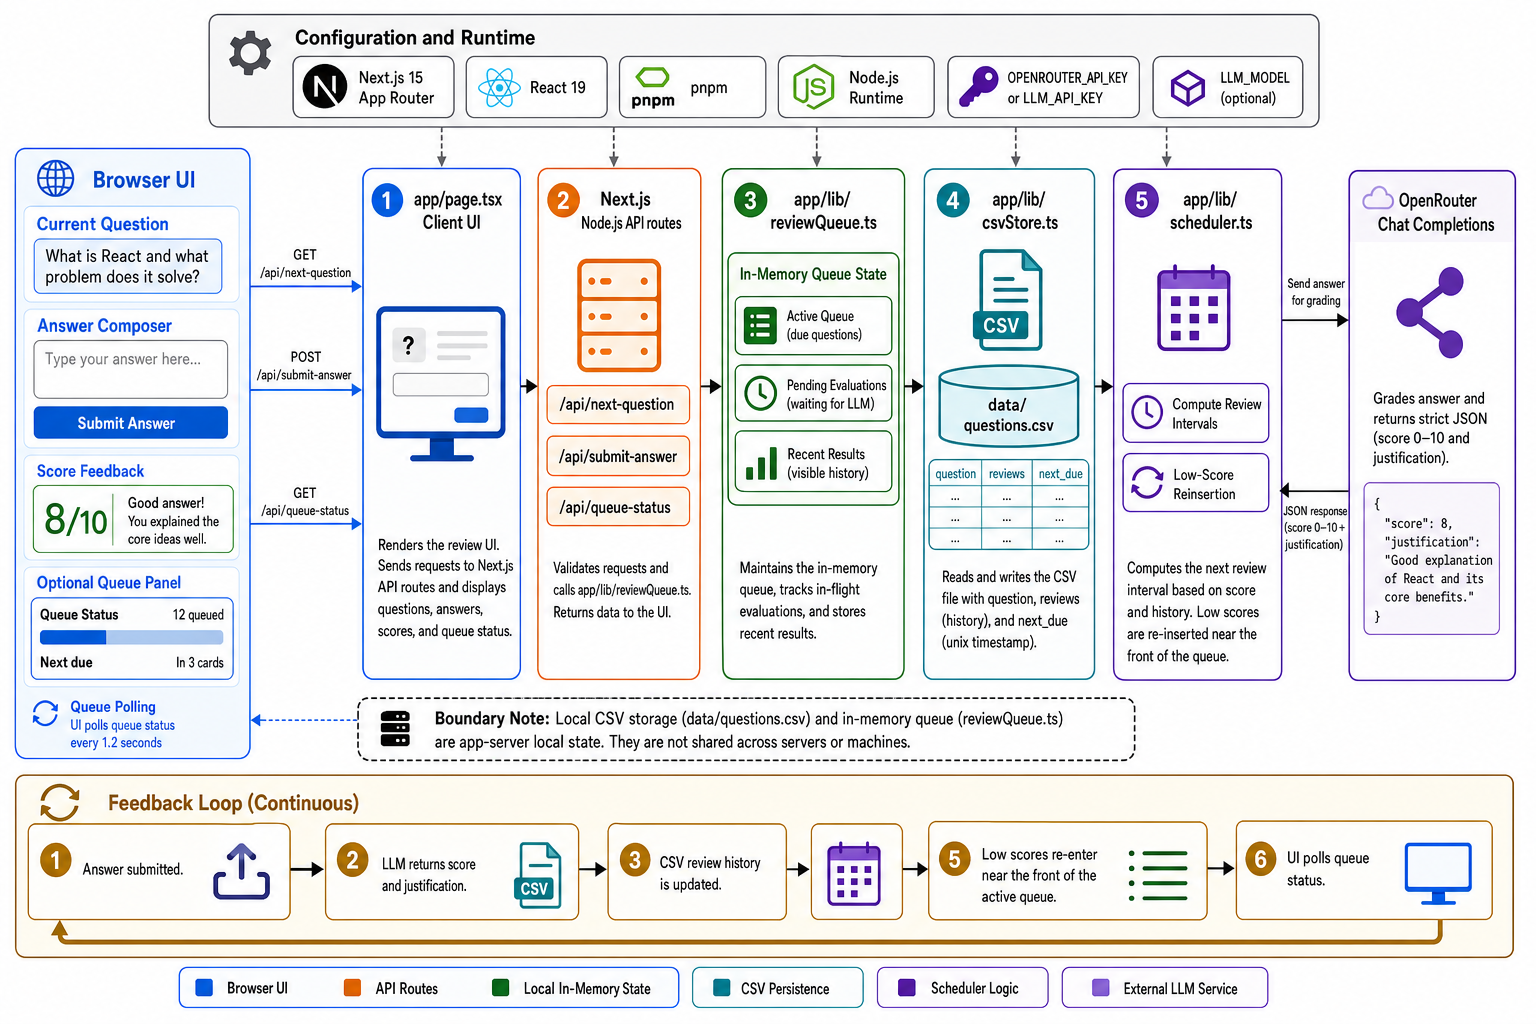
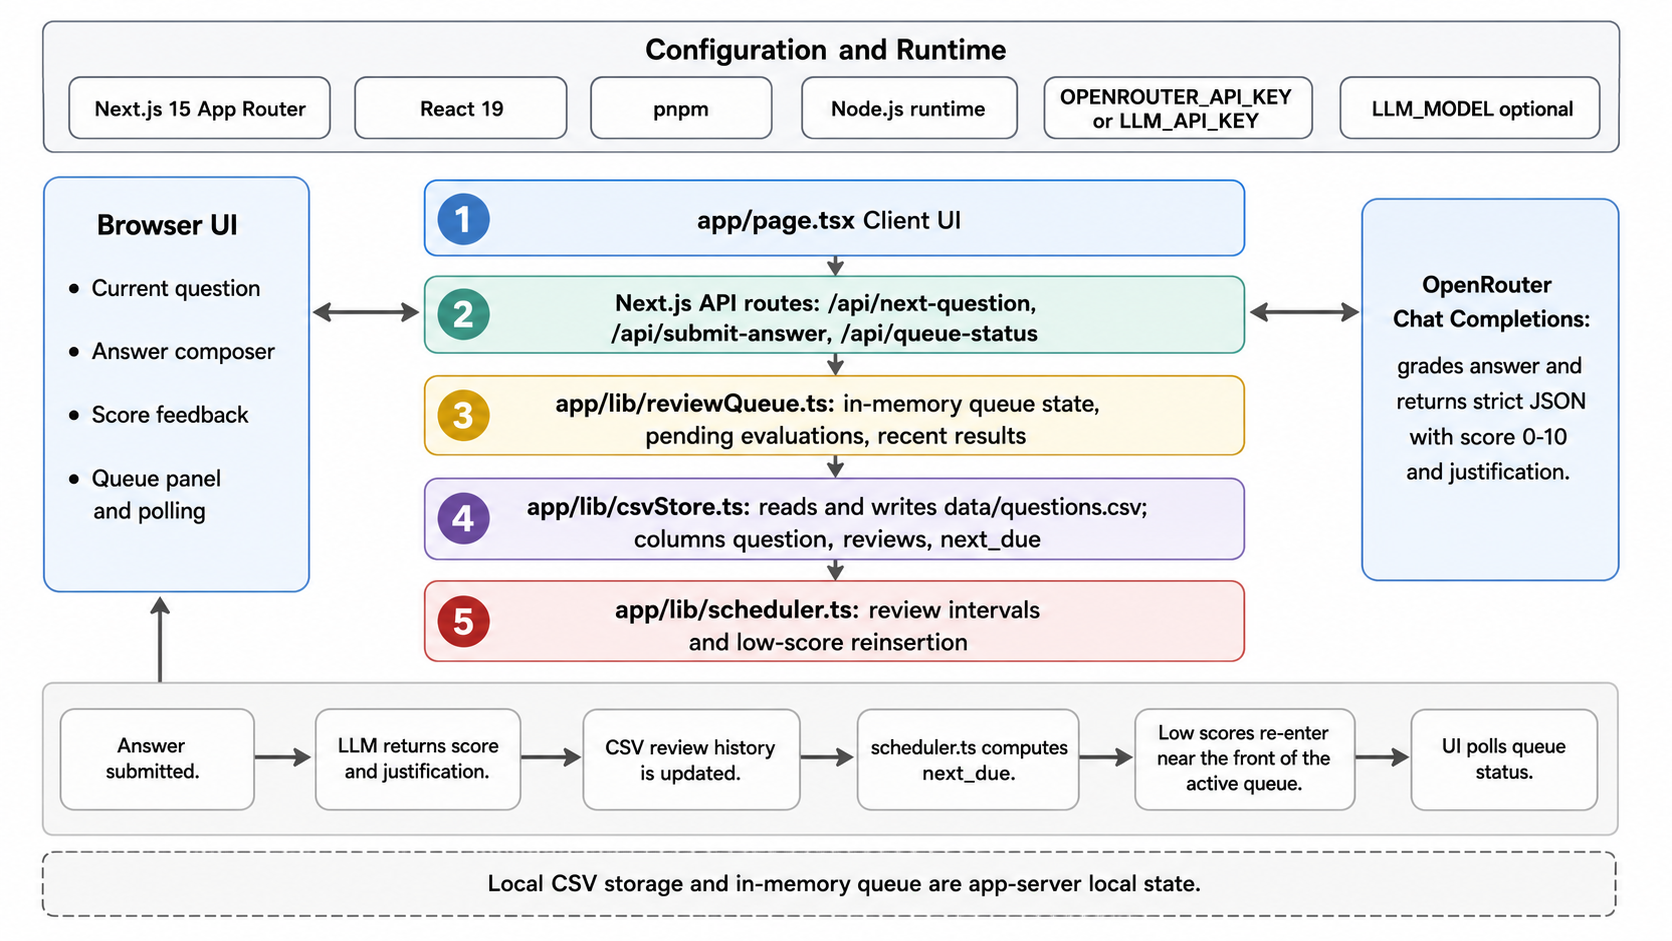
Rename project to waxon

Changed region(s): [[0.0, 0.0, 1.0, 0.9862]]

diff --git a/app/lib/reviewQueue.ts b/app/lib/reviewQueue.ts
@@ -54,11 +54,11 @@ type QueueState = {
 };
 
 const globalForQueue = globalThis as typeof globalThis & {
-  flashcarderQueue?: QueueState;
+  waxonQueue?: QueueState;
 };
 
 const state: QueueState =
-  globalForQueue.flashcarderQueue ??
+  globalForQueue.waxonQueue ??
   {
     initialized: false,
     initializing: null,
@@ -69,11 +69,11 @@ const state: QueueState =
     latestByQuestion: {},
   };
 
-globalForQueue.flashcarderQueue = state;
+globalForQueue.waxonQueue = state;
 state.latestByQuestion ??= {};
 
 function logQueueFlushStatus(action: string): void {
-  console.info("[flashcarder] queue flush status", {
+  console.info("[waxon] queue flush status", {
     action,
     queueRemaining: state.queue.length,
     pendingEvaluations: state.pendingEvaluations,

diff --git a/app/lib/evaluateAnswer.ts b/app/lib/evaluateAnswer.ts
@@ -140,7 +140,7 @@ export async function evaluateAnswer(
         Authorization: `Bearer ${apiKey}`,
         "Content-Type": "application/json",
         "HTTP-Referer": "http://localhost:3000",
-        "X-Title": "Flashcarder",
+        "X-Title": "waxon",
       },
       body: JSON.stringify({
         model: process.env.LLM_MODEL ?? "openai/gpt-5.5",
@@ -160,7 +160,7 @@ export async function evaluateAnswer(
 
     if (!response.ok) {
       const errorText = await response.text().catch(() => "");
-      console.info("[flashcarder] llm evaluation failed", {
+      console.info("[waxon] llm evaluation failed", {
         provider: "openrouter",
         model: process.env.LLM_MODEL ?? "openai/gpt-5.5",
         status: response.status,
@@ -173,7 +173,7 @@ export async function evaluateAnswer(
     const body: unknown = await response.json();
     return parseEvaluation(extractChatCompletionText(body));
   } catch (error) {
-    console.info("[flashcarder] llm evaluation failed", {
+    console.info("[waxon] llm evaluation failed", {
       provider: "openrouter",
       model: process.env.LLM_MODEL ?? "openai/gpt-5.5",
       error: error instanceof Error ? error.message : "unknown error",

diff --git a/app/layout.tsx b/app/layout.tsx
@@ -2,7 +2,7 @@ import type { Metadata } from "next";
 import "./globals.css";
 
 export const metadata: Metadata = {
-  title: "Flashcarder",
+  title: "waxon",
   description: "Fast free-text flashcard review",
 };
 

diff --git a/README.md b/README.md
@@ -1,18 +1,18 @@
 <div align="center">
-  <img src="./public/brand/logo/logo-1024.png" alt="Flashcarder" width="512" />
+  <img src="./public/brand/logo/logo-1024.png" alt="waxon" width="512" />
 
   **🧠 Fast free-text flashcard review 🧠**
 </div>
 
-Flashcarder is a Next.js app for practicing recall with typed answers. It serves due questions, sends each answer for LLM grading, stores the score history in a local CSV file, and schedules the next review from that score.
+waxon is a Next.js app for practicing recall with typed answers. It serves due questions, sends each answer for LLM grading, stores the score history in a local CSV file, and schedules the next review from that score.
 
 The app is built for a single local or single-server review loop. A small queue panel shows active cards, pending evaluations, recent scores, and upcoming due times.
 
 ## Install
 
 ```bash
-git clone https://github.com/tsilva/waxon.git flashcarder
-cd flashcarder
+git clone https://github.com/tsilva/waxon.git
+cd waxon
 pnpm install
 pnpm dev
 ```
@@ -50,7 +50,7 @@ pnpm typecheck  # run TypeScript without emitting files
 
 ## Architecture
 
-![Flashcarder architecture diagram](./architecture.png)
+![waxon architecture diagram](./architecture.png)
 
 ## License
 